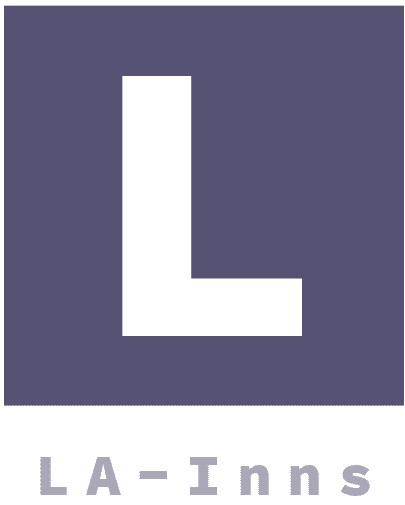
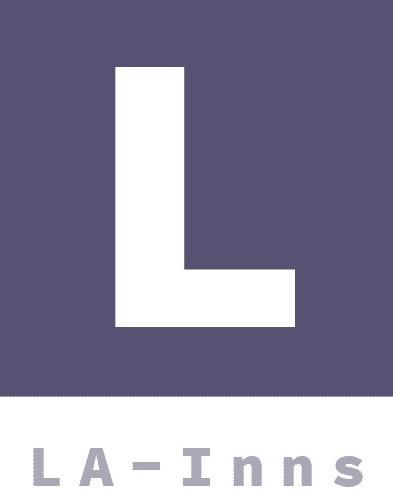
fixed UI

diff --git a/public/css/layout.css b/public/css/layout.css
@@ -1,3 +1,4 @@
+
 .star-rating {
     font-size: 0;
     white-space: nowrap;
@@ -75,4 +76,3 @@ div #map-parent{
   height: 80%;
   width: 80%;
 }
-      

diff --git a/resources/views/user/index.blade.php b/resources/views/user/index.blade.php
@@ -11,31 +11,37 @@
 @endsection
 
 @section( 'contents' )
-<div class="uk-child-width-expand@s" uk-grid>
+<div class="uk-child-width-expand@s" uk-grid >
     <div>
         <div class="uk-margin-xlarge-left">
-            <div class="uk-margin-xlarge-left uk-text-center uk-width-3-5 uk-padding" style="border: 1px solid; border-radius: 50px;">
+            <div class="uk-margin-xlarge-left uk-text-center uk-width-3-5 uk-padding" style="border: 1px solid; border-radius: 50px; background-color: white">
                 <img src="{{ asset( 'img/icon.jpg' ) }}" alt="user_icon" style="width: 20ex; heghit: 20ex">
                 <h3>名前： {{ $user->name }}</h3>
                 <p class="uk-text-small">メールアドレス： {{ $user->email }}</p>
-                <a href="{{ route( 'users.edit', $user->id ) }}">アカウント情報を変更する</a>
+                <a class="uk-margin-top" href="{{ route( 'users.edit', $user->id ) }}">アカウント情報を変更する</a>
             </div>
         </div>
     </div>
     
     <div>
-    <h2>予約履歴</h2>
-    @if( count( $books ) > 0)
-        <ul class="uk-list uk-list-circle">
-            @for( $i = 0; $i < count( $books ); $i++ )
-            <li>
-                <a href="{{ route( 'books.show', $books[ $i ]->id ) }}">{{ $inn_names[ $i ] }} ({{ $books[ $i ]->checkin_date }})</a>
-            </li>
-            @endfor
-        </ul>
-    @else
-        <p>予約はありません</p>
-    @endif
-    </div>    
+        <div class="uk-card uk-card-default uk-card-body uk-width-1-2">
+            <h2>予約履歴</h2>
+            @if( count( $books ) > 0)
+            <div class="scroll-container">
+                <ul class="uk-list uk-list-circle">
+                    @for( $i = 0; $i < count( $books ); $i++ )
+                        @if( date('Y-m-d') > $books[ $i ]->checkin_date )
+                            <a href="{{ route( 'books.show', $books[ $i ]->id ) }}" class="uk-text-danger">{{ $inn_names[ $i ] }} ({{ $books[ $i ]->checkin_date }})</a>                        
+                        @else
+                            <a href="{{ route( 'books.show', $books[ $i ]->id ) }}">{{ $inn_names[ $i ] }} ({{ $books[ $i ]->checkin_date }})</a>
+                        @endif
+                    @endfor
+                </ul>
+            </div>
+            @else
+                <p>予約はありません</p>
+            @endif
+            </div>
+    </div>
 </div>
 @endsection

diff --git a/resources/views/common/layout.blade.php b/resources/views/common/layout.blade.php
@@ -1,5 +1,5 @@
 <!DOCTYPE html>
-<html lang="ja">
+<html lang="ja" style="background-color: #faf8f2">
 <head>
     <meta charset="UTF-8">
     <meta name="viewport" content="width=device-width, initial-scale=1.0">
@@ -15,10 +15,12 @@
     <script src="https://cdn.jsdelivr.net/npm/uikit@3.6.22/dist/js/uikit-icons.min.js"></script>
 </head>
 <body>
-    <div>
+    <div style="background-color: #4C3E55">
         <div class="uk-margin-remove-bottom uk-child-width-expand@s" uk-grid>
             <div>
-                <img src="{{ asset( 'img/LA_Inns.jpg' ) }}" alt="LA_Inns" style="width: 10ex; height: 13ex" onclick="location.href='/'">
+                {{-- <img src="{{ asset( 'img/LA_Inns.jpg' ) }}" alt="LA_Inns" style="width: 10ex; height: 13ex" onclick="location.href='/'"> --}}
+                <a class="uk-margin-left uk-margin-remove-bottom" onclick="location.href='/'" style="font-size: 50px; color: white; text-decoration: none;">L</a>
+                <p class="uk-margin-small-left uk-margin-remove-top" style="color: white;">LA-Inns</p>
             </div>
 
             @yield( 'header' )
@@ -26,7 +28,7 @@
             <div class="uk-text-right uk-margin-small-right uk-margin-top">
                 @if( Auth::check() )
                 <div class="uk-inline">
-                    <button class="uk-button uk-button-default" type="button">アカウント</button>
+                    <button class="uk-button uk-button-default" type="button" style="color: white">アカウント</button>
                     <div uk-dropdown="mode: click" class="uk-text-left">
                         <p>
                             <a href="{{ route( 'users.index' ) }}">アカウント情報</a>
@@ -48,12 +50,11 @@
                    </script>
                 </div>    
                 @else
-                    <a class="uk-button uk-button-default" type="button" href="{{ route( 'login' ) }}">ログイン</a>
+                    <a class="uk-button uk-button-default" type="button" href="{{ route( 'login' ) }}" style="color: white">ログイン</a>
                 @endif
             </div>
         </div>
-        
-        </div>
+    </div>
   
     <hr class="uk-margin-remove-top">
 

diff --git a/resources/views/user/edit.blade.php b/resources/views/user/edit.blade.php
@@ -13,25 +13,28 @@
 @section( 'contents' )
 <a  class="uk-margin-small-left" uk-icon="icon: arrow-left; ratio: 2" href="{{ route( 'users.index' ) }}"></a>
 <div class="uk-text-center">
-    <h1>アカウント情報変更</h1>
-
-    <div>
-        <img src="{{ asset( 'img/icon.jpg' ) }}" alt="user_icon" style="width: 20ex; heghit: 20ex">
-    </div>
-    <div>
-        <form action="{{ route( 'users.update', $user->id ) }}" method="POST" >
-            @csrf
-            @method( 'put' )
-            <p>
-                <label for="name">名前：</label>
-                <input type="text" name="name" placeholder="{{ $user->name }}" value="{{ $user->name }}">
-            </p>
-            <p>
-                <label for="email">メールアドレス：</label>
-                <input type="email" name="email" placeholder="{{ $user->email }}" value="{{ $user->email }}">
-            </p>
-            <button class="uk-button uk-button-default uk-margin-small-bottom" type="submit">変更する</button>
-        </form>
+    <div class="uk-margin-auto uk-width-2-5" style="background-color: white; border: 1px solid; border-radius: 50px;">
+        <h1 class="uk-margin-top">アカウント情報変更</h1>
+    
+        <div>
+            <img src="{{ asset( 'img/icon.jpg' ) }}" alt="user_icon" style="width: 20ex; heghit: 20ex">
+        </div>
+        <div>
+            <form action="{{ route( 'users.update', $user->id ) }}" method="POST" >
+                @csrf
+                @method( 'put' )
+                <p>
+                    <label for="name">名前：</label>
+                    <input type="text" name="name" placeholder="{{ $user->name }}" value="{{ $user->name }}">
+                </p>
+                <p>
+                    <label for="email">メールアドレス：</label>
+                    <input type="email" name="email" placeholder="{{ $user->email }}" value="{{ $user->email }}">
+                </p>
+                <button class="uk-button uk-button-default uk-margin-small-bottom" type="submit" style="border-radius: 50px;">変更する</button>
+            </form>
+        </div>
     </div>
 </div>
+
 @endsection

diff --git a/resources/views/home.blade.php b/resources/views/home.blade.php
@@ -1,14 +1,14 @@
 @extends( 'common.layout' )
 
 @section( 'header' )
-<h1 class="uk-text-center uk-margin-top">宿を探す</h1>
+<h1 class="uk-text-center uk-margin-top" style="color: white">宿を探す</h1>
 @endsection
 
 @section( 'contents' )
 <div class="uk-text-center uk-margin-bottom">
-    <form class="uk-search uk-search-large" action="{{ route( 'inn_search' ) }}" method="GET" style="border: 1px solid; boder-color: gray; border-radius: 40px;">
+    <form class="uk-search uk-search-large uk-width-1-2" action="{{ route( 'inn_search' ) }}" method="GET" style="border: 1px solid; boder-color: gray; border-radius: 40px;">
         @csrf
-        <input class="uk-text-center uk-search-input" type="search" name="address" placeholder="ロケーション" value="{{ request( 'location' ) }}">
+        <input class="uk-text-center uk-search-input" type="search" name="address" placeholder="ロケーション" value="{{ request( 'location' ) }}" style="height: 55px;">
         <button class="uk-search-icon-flip" type="submit" uk-search-icon></button>
     </form>    
 </div>
